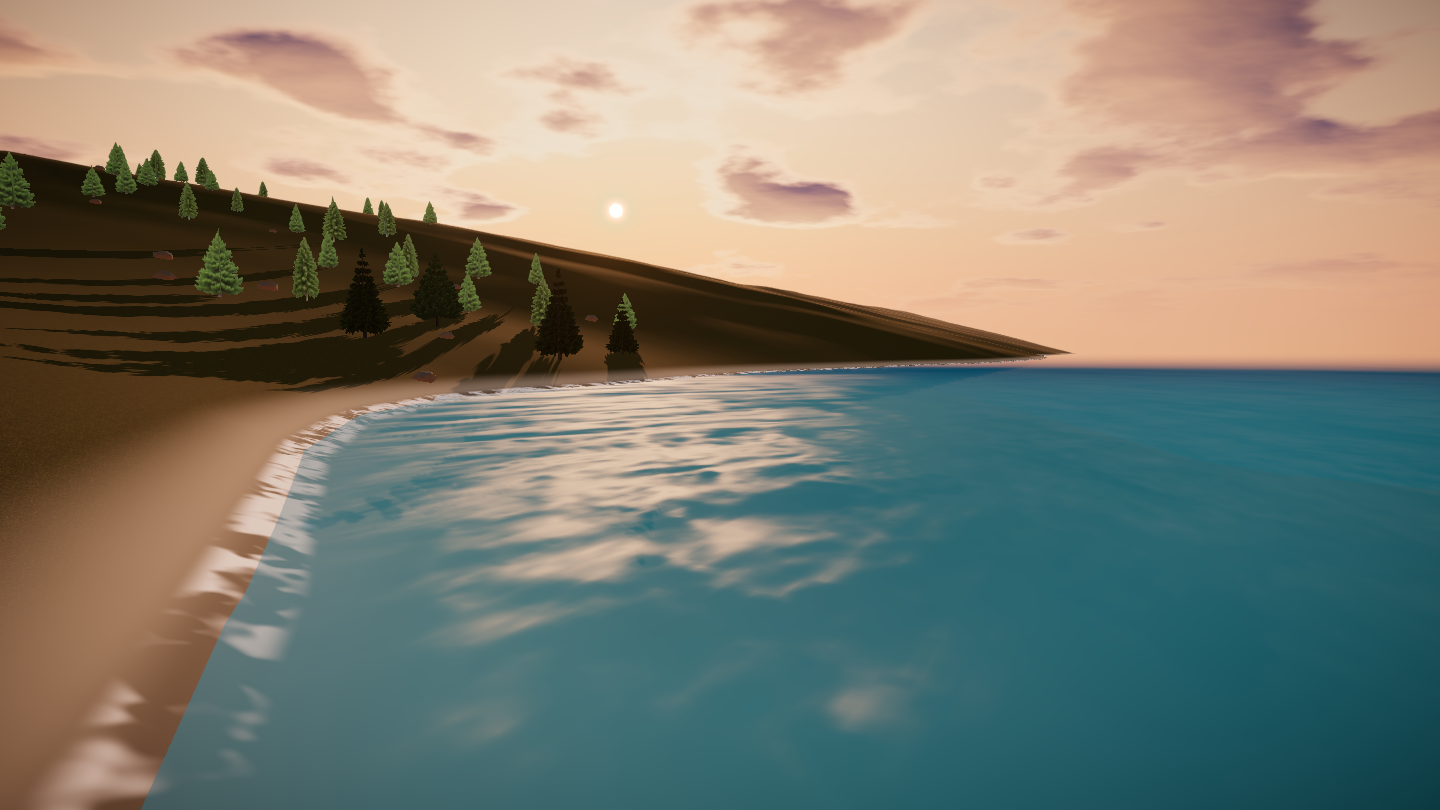
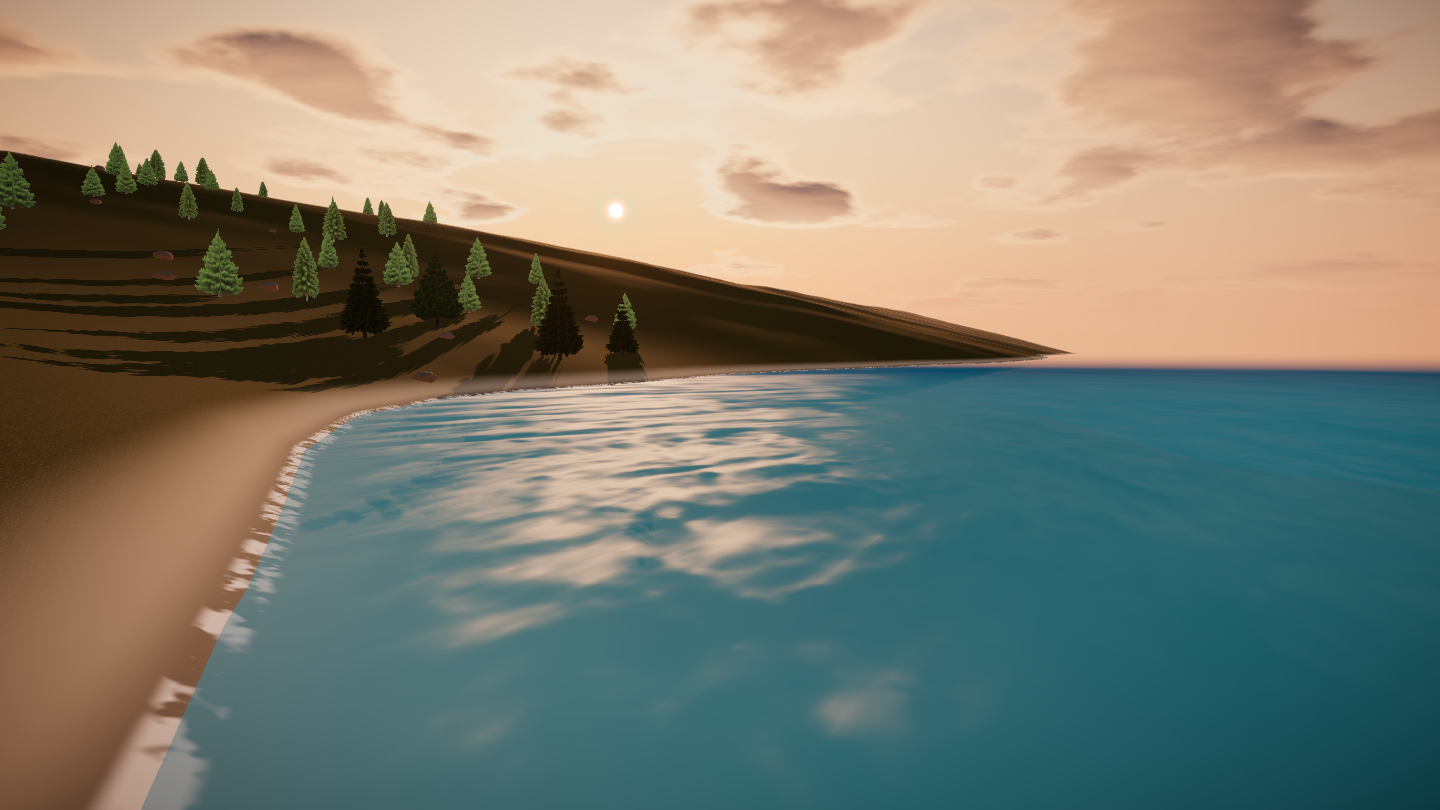
T36: 提亮山谷逆光云，调整海岸云色并细化浪花

diff --git a/src/render/clouds.ts b/src/render/clouds.ts
@@ -4,7 +4,7 @@ import valueNoise from './valueNoise.glsl?raw';
 
 const palettes = {
   valley: { threshold: .50, light: '#FFFFFF', shade: '#9AA6B4' },
-  coast: { threshold: .52, light: '#FFB48A', shade: '#6E5A70' },
+  coast: { threshold: .52, light: '#FFB48A', shade: '#7A6560' },
 };
 
 export function createClouds(track: TrackData, sunDirection: Vector3) {
@@ -13,6 +13,7 @@ export function createClouds(track: TrackData, sunDirection: Vector3) {
   // 规格未指定：以 900 m 的云层高度换算视差和风速，水平风向量取 (2, 1.5) m/s。
   const material = new ShaderMaterial({
     side: BackSide, transparent: true, depthWrite: false, fog: false,
+    defines: track.id === 'valley' ? { VALLEY_BACKLIGHT: 1 } : {},
     uniforms: {
       elapsed, threshold: { value: threshold }, sunDirection: { value: sunDirection },
       sunColor: { value: new Color(track.environment.sunColor) },
@@ -61,9 +62,19 @@ export function createClouds(track: TrackData, sunDirection: Vector3) {
 
         float lighting = clamp(.64 - .86 * field.y - .16 * cover, .02, 1.0);
         vec3 color = mix(shadeColor, lightColor, lighting);
-        float forward = pow(max(dot(dir, sunDirection), 0.0), 7.0);
+        float sunAlignment = max(dot(dir, sunDirection), 0.0);
+        float forward = pow(sunAlignment, 7.0);
         float rim = (1.0 - smoothstep(threshold + .035, threshold + .17, field.x)) * forward;
         color += sunColor * (1.8 * rim);
+        #ifdef VALLEY_BACKLIGHT
+          float backlight = smoothstep(.4, .95, sunAlignment);
+          color += lightColor * (.33 * backlight * (1.0 - .5 * lighting));
+          // The tapered edge still has enough opacity to catch transmitted sunlight.
+          float density = field.x - threshold;
+          float edge = smoothstep(.025, .065, density) * (1.0 - smoothstep(.07, .14, density));
+          float sunward = clamp(.55 - field.y, .1, 1.0);
+          color += sunColor * (.90 * edge * sunward * backlight);
+        #endif
         gl_FragColor = vec4(color, alpha * .96);
         #include <tonemapping_fragment>
         #include <colorspace_fragment>

diff --git a/src/render/materials.ts b/src/render/materials.ts
@@ -66,11 +66,11 @@ export function terrainMaterial(grassAlbedo: THREE.Texture, rockAlbedo: THREE.Te
             vec3 beach = mix(sand * 0.55, sand, smoothstep(0.05, 0.45, y));
             land = mix(beach, land, smoothstep(0.4, 1.6, y));
             land *= exp(min(y, 0.0) * vec3(0.65, 0.30, 0.22));
-            if (abs(y) < 0.35) {
-              float n = 0.6 * valueNoise(vWPos.xz * 0.9 + shoreTime * vec2(.12, -.18)).x
-                      + 0.4 * valueNoise(vWPos.xz * 3.1 + shoreTime * vec2(-.28, .07)).x;
-              float band = 1.0 - smoothstep(0.16, 0.35, abs(y));
-              land = mix(land, vec3(1.6), band * smoothstep(0.35, 0.65, n));
+            if (abs(y) < 0.175) {
+              float n = 0.6 * valueNoise(vWPos.xz * 1.8 + shoreTime * vec2(.12, -.18)).x
+                      + 0.4 * valueNoise(vWPos.xz * 6.2 + shoreTime * vec2(-.28, .07)).x;
+              float band = 1.0 - smoothstep(0.08, 0.175, abs(y));
+              land = mix(land, vec3(1.2), band * smoothstep(0.4, 0.65, n));
             }
           }
         #endif

diff --git a/docs/specs/05-渲染与画面.md b/docs/specs/05-渲染与画面.md
@@ -57,14 +57,14 @@ scene.environment = new THREE.PMREMGenerator(renderer).fromScene(envScene, 0, 0.
 
 海岸使用浑浊度 10、瑞利散射 3.6、米氏散射系数 0.014、方向性 0.78。低空暖色衰减同时作用于天空和环境反射，雾色取 `#D99D79`。天空与方向光沿用赛道中的同一太阳方向。
 
-程序天空的云层由 `src/render/clouds.ts` 绘制。半径 5000 m 的内向球面在天空之后渲染，六层 fBm 按观察方向投影到云层上。云向世界坐标 +X、+Z 方向分别以 2 m/s、1.5 m/s 移动，接近地平线时逐渐消隐，向阳的一侧有亮边。加载 HDRI 时由全景图提供天空和云。
+程序天空的云层由 `src/render/clouds.ts` 绘制。半径 5000 m 的内向球面在天空之后渲染，六层 fBm 按观察方向投影到云层上。云向世界坐标 +X、+Z 方向分别以 2 m/s、1.5 m/s 移动，接近地平线时逐渐消隐，向阳的一侧有亮边。云杉谷逆光时提亮云体暗部，薄云边缘透出太阳的暖色。加载 HDRI 时由全景图提供天空和云。
 
 下表均为 1440 × 810 高画质截图。顺光图采用追尾视角，逆光图从赛道路面朝太阳拍摄。
 
 | 赛道 | 覆盖阈值 | 亮面 / 暗面 | 顺光 | 逆光 |
 | --- | --- | --- | --- | --- |
 | 云杉谷 | 0.50 | `#FFFFFF` / `#9AA6B4` | [顺光实景](../screenshots/clouds-valley-frontlit.png) | [逆光实景](../screenshots/clouds-valley-backlit.png) |
-| 灯塔海岸 | 0.52 | `#FFB48A` / `#6E5A70` | [顺光实景](../screenshots/clouds-coast-frontlit.png) | [逆光实景](../screenshots/clouds-coast-backlit.png) |
+| 灯塔海岸 | 0.52 | `#FFB48A` / `#7A6560` | [顺光实景](../screenshots/clouds-coast-frontlit.png) | [逆光实景](../screenshots/clouds-coast-backlit.png) |
 
 ### 太阳光
 

diff --git a/docs/specs/04-赛道与地形.md b/docs/specs/04-赛道与地形.md
@@ -175,7 +175,7 @@ farField(x, z):
 
 草地和岩石按坡度混合，地形接收阴影。见 05 §5.4。
 
-海岸地形按相对海平面的世界高度 `y` 着色。干沙为 `vec3(0.62, 0.55, 0.42)`，在 0.4–1.6 m 过渡到原地形。湿沙亮度为干沙的 0.55 倍，在 0.05–0.45 m 过渡到干沙。海平面上下 0.35 m 内，用频率 0.9、3.1 和权重 0.6、0.4 的两层值噪声，经 `smoothstep(0.35, 0.65, n)` 将 `vec3(1.6)` 的白色浪花分成碎带。
+海岸地形按相对海平面的世界高度 `y` 着色。干沙为 `vec3(0.62, 0.55, 0.42)`，在 0.4–1.6 m 过渡到原地形。湿沙亮度为干沙的 0.55 倍，在 0.05–0.45 m 过渡到干沙。海平面上下 0.175 m 内，用频率 1.8、6.2 和权重 0.6、0.4 的两层值噪声，经 `smoothstep(0.4, 0.65, n)` 将 `vec3(1.2)` 的浪花打碎。从距海平面 0.08 m 处开始向两侧渐隐。
 
 ### 4.5.5 测试
 
